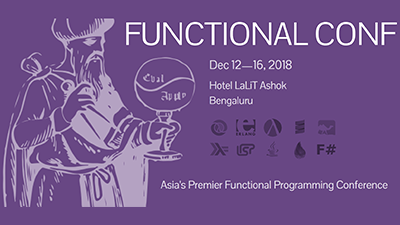
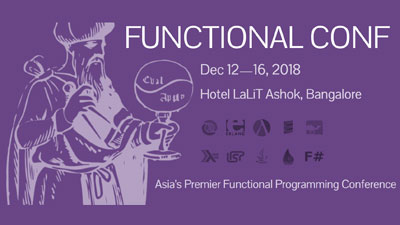
fixed Lalit spelling

Changed region(s): [[0.0, 0.0622, 1.0, 0.9333], [0.48, 0.5289, 0.84, 0.7467]]

diff --git a/venue.html b/venue.html
@@ -19,10 +19,10 @@
     var marker = new google.maps.Marker({
       position: myLatlng,
       map: map,
-      title:"The LaLiT Ashok Bangalore, Kumara Krupa High Grounds, Bengaluru 560001 India – +91-80-3052-7777"
+      title:"The Lalit Ashok Bangalore, Kumara Krupa High Grounds, Bengaluru 560001 India – +91-80-3052-7777"
     });
     var infowindow = new google.maps.InfoWindow({
-      content: "The LaLiT Ashok Bangalore, <br />Kumara Krupa High Grounds <br />Bengaluru - 560001"
+      content: "The Lalit Ashok Bangalore, <br />Kumara Krupa High Grounds <br />Bengaluru - 560001"
     });
     google.maps.event.addListener(map, "tilesloaded", function() {
       infowindow.open(map, marker);
@@ -111,7 +111,7 @@ onload="javascript: LoadGmaps();"
                 <p>Exuding an old world charm yet contemporary vibe, Bangalore is ever-welcoming and cosmopolitan in the true sense. A city that offers all that is modern yet is a bastion of tradition; Bangalore’s all-round-the-year pleasant climate and hospitable warmth make it one of the most popular cities to visit.</p>
                 <p><a target="_blank" href="https://www.thelalit.com/the-lalit-bangalore/">Hotel Lalit Ashok</a>, a Luxury 5 Star Hotel, puts you within reach of some of the best restaurants and attractions Bangalore has to offer.</p>
 
-                <p><strong>The LaLiT Ashok Bangalore</strong> <br>Kumara Krupa High Grounds, Bengaluru - 560 001, India <br>Tel : +91-80-3052-7777 <br><a href="https://www.thelalit.com/the-lalit-bangalore/" target="_blank">www.thelalit.com</a></p>
+                <p><strong>The Lalit Ashok Bangalore</strong> <br>Kumara Krupa High Grounds, Bengaluru - 560 001, India <br>Tel : +91-80-3052-7777 <br><a href="https://www.thelalit.com/the-lalit-bangalore/" target="_blank">www.thelalit.com</a></p>
 
                 <a href="https://goo.gl/maps/UXWppfPdRit" target="_blank" id="venue-map" class="venue-map"></a>
             </div>
@@ -126,7 +126,7 @@ onload="javascript: LoadGmaps();"
 
                 <p><strong>Mr. Adhiyamaan Ori</strong>,
                     <br><em>Assistant Sales Manager</em>,
-                    <br><strong>The LaLiT Ashok Bangalore</strong>
+                    <br><strong>The Lalit Ashok Bangalore</strong>
                     <br>Kumara Krupa High Grounds, Bengaluru - 560 001, India
                     <br><strong>Email</strong>: <a href="mailto:aori@thelalit.com">aori@thelalit.com</a>
                     <br><strong>Mobile</strong>: +91 99000 38935

diff --git a/templates/venue.html b/templates/venue.html
@@ -22,7 +22,7 @@ onload="javascript: LoadGmaps();"
                 <p>Exuding an old world charm yet contemporary vibe, Bangalore is ever-welcoming and cosmopolitan in the true sense. A city that offers all that is modern yet is a bastion of tradition; Bangalore’s all-round-the-year pleasant climate and hospitable warmth make it one of the most popular cities to visit.</p>
                 <p><a target="_blank" href="https://www.thelalit.com/the-lalit-bangalore/">Hotel Lalit Ashok</a>, a Luxury 5 Star Hotel, puts you within reach of some of the best restaurants and attractions Bangalore has to offer.</p>
 
-                <p><strong>The LaLiT Ashok Bangalore</strong> <br>Kumara Krupa High Grounds, Bengaluru - 560 001, India <br>Tel : +91-80-3052-7777 <br><a href="https://www.thelalit.com/the-lalit-bangalore/" target="_blank">www.thelalit.com</a></p>
+                <p><strong>The Lalit Ashok Bangalore</strong> <br>Kumara Krupa High Grounds, Bengaluru - 560 001, India <br>Tel : +91-80-3052-7777 <br><a href="https://www.thelalit.com/the-lalit-bangalore/" target="_blank">www.thelalit.com</a></p>
 
                 <a href="https://goo.gl/maps/UXWppfPdRit" target="_blank" id="venue-map" class="venue-map"></a>
             </div>
@@ -37,7 +37,7 @@ onload="javascript: LoadGmaps();"
 
                 <p><strong>Mr. Adhiyamaan Ori</strong>,
                     <br><em>Assistant Sales Manager</em>,
-                    <br><strong>The LaLiT Ashok Bangalore</strong>
+                    <br><strong>The Lalit Ashok Bangalore</strong>
                     <br>Kumara Krupa High Grounds, Bengaluru - 560 001, India
                     <br><strong>Email</strong>: <a href="mailto:aori@thelalit.com">aori@thelalit.com</a>
                     <br><strong>Mobile</strong>: +91 99000 38935

diff --git a/templates/_map.html b/templates/_map.html
@@ -19,10 +19,10 @@
     var marker = new google.maps.Marker({
       position: myLatlng,
       map: map,
-      title:"The LaLiT Ashok Bangalore, Kumara Krupa High Grounds, Bengaluru 560001 India – +91-80-3052-7777"
+      title:"The Lalit Ashok Bangalore, Kumara Krupa High Grounds, Bengaluru 560001 India – +91-80-3052-7777"
     });
     var infowindow = new google.maps.InfoWindow({
-      content: "The LaLiT Ashok Bangalore, <br />Kumara Krupa High Grounds <br />Bengaluru - 560001"
+      content: "The Lalit Ashok Bangalore, <br />Kumara Krupa High Grounds <br />Bengaluru - 560001"
     });
     google.maps.event.addListener(map, "tilesloaded", function() {
       infowindow.open(map, marker);

diff --git a/index.html b/index.html
@@ -60,7 +60,7 @@ page-index
             <div class="subtitle">Asia's Premier Functional Programming Conference</div>
             <a class="schedule" href="schedule.html">Dec 12&mdash;16, 2018</a>
             <a class="venue" href="venue.html">
-                Hotel LaLiT Ashok<br/>
+                Hotel LaliT Ashok<br/>
                 Bengaluru
             </a>
             <a class="button button--register" href="https://confengine.com/functional-conf-2018/register/selection" target="_blank">Register</a>

diff --git a/templates/index.html b/templates/index.html
@@ -21,7 +21,7 @@ page-index
             <div class="subtitle">Asia's Premier Functional Programming Conference</div>
             <a class="schedule" href="schedule.html">Dec 12&mdash;16, 2018</a>
             <a class="venue" href="venue.html">
-                Hotel LaLiT Ashok<br/>
+                Hotel LaliT Ashok<br/>
                 Bengaluru
             </a>
             <a class="button button--register" href="https://confengine.com/functional-conf-2018/register/selection" target="_blank">Register</a>
